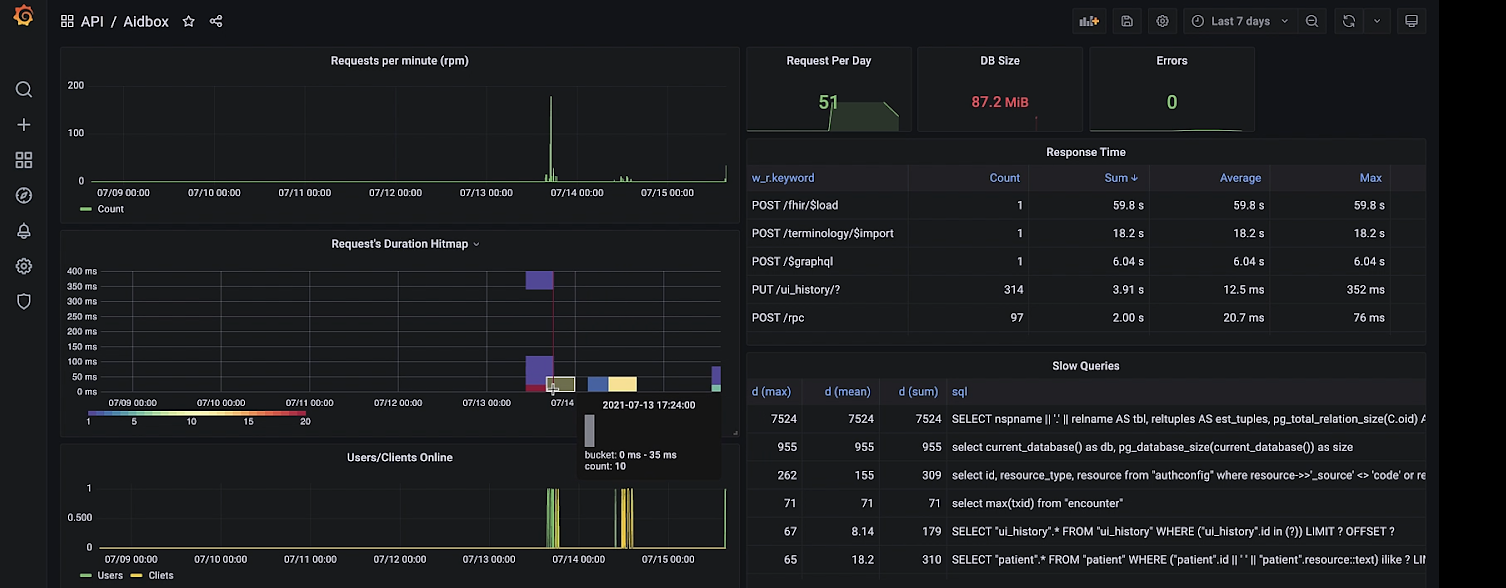
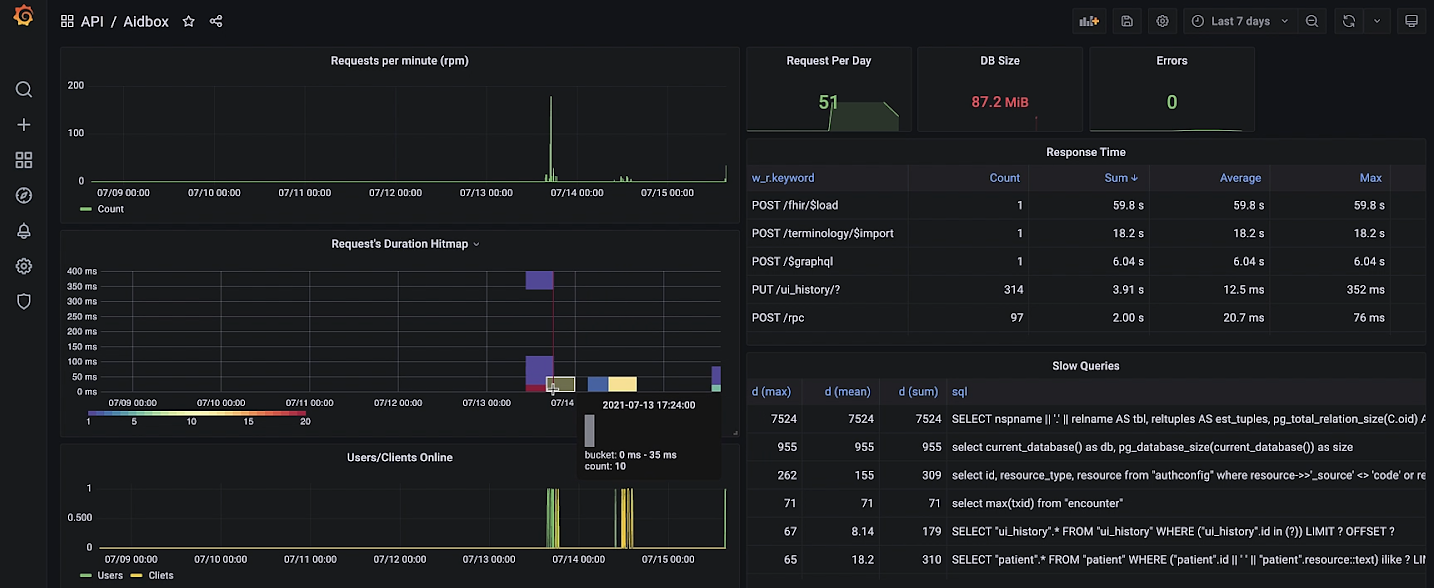
GitBook: [master] one page and 2 assets modified

diff --git a/app-development-guides/tutorials/log.md b/app-development-guides/tutorials/log.md
@@ -9,7 +9,7 @@ description: This tutorial is designed to help you learn logging in DevBox
 You may want to track logs in AidBox with Kibana, and Grafana. You can do anything from tracking query load to understanding the way requests flow through your apps.   
 
 
-We prepared for you docker-compose.yaml file with Elastic search, Kibana and Grafana pre-configured. For log tracking, you only have to [pull this repository](https://github.com/Aidbox/devbox/blob/master/docker-compose.yaml) and execute \`make up\` operation in your shell.   
+We prepared for you docker-compose.yaml file with Elastic search, Kibana and Grafana pre-configured. For log tracking, you only have to [pull this repository](https://github.com/Aidbox/devbox/blob/master/docker-compose.yaml) and execute `make up` operation in your shell.   
 
 
 Subsequently, please open the localhost address in the browser. You can look up the address in docker-compose.
@@ -33,7 +33,7 @@ This dashboard aggregate Response Time on different user operations
 
 This dashboard hitmap illustrates buckets with color grading correlating with request number.
 
-![Grafana logging UI](../../.gitbook/assets/image%20%2843%29.png)
+![Grafana UI logging](../../.gitbook/assets/image%20%2842%29.png)
 
 To review slow requests:
 
